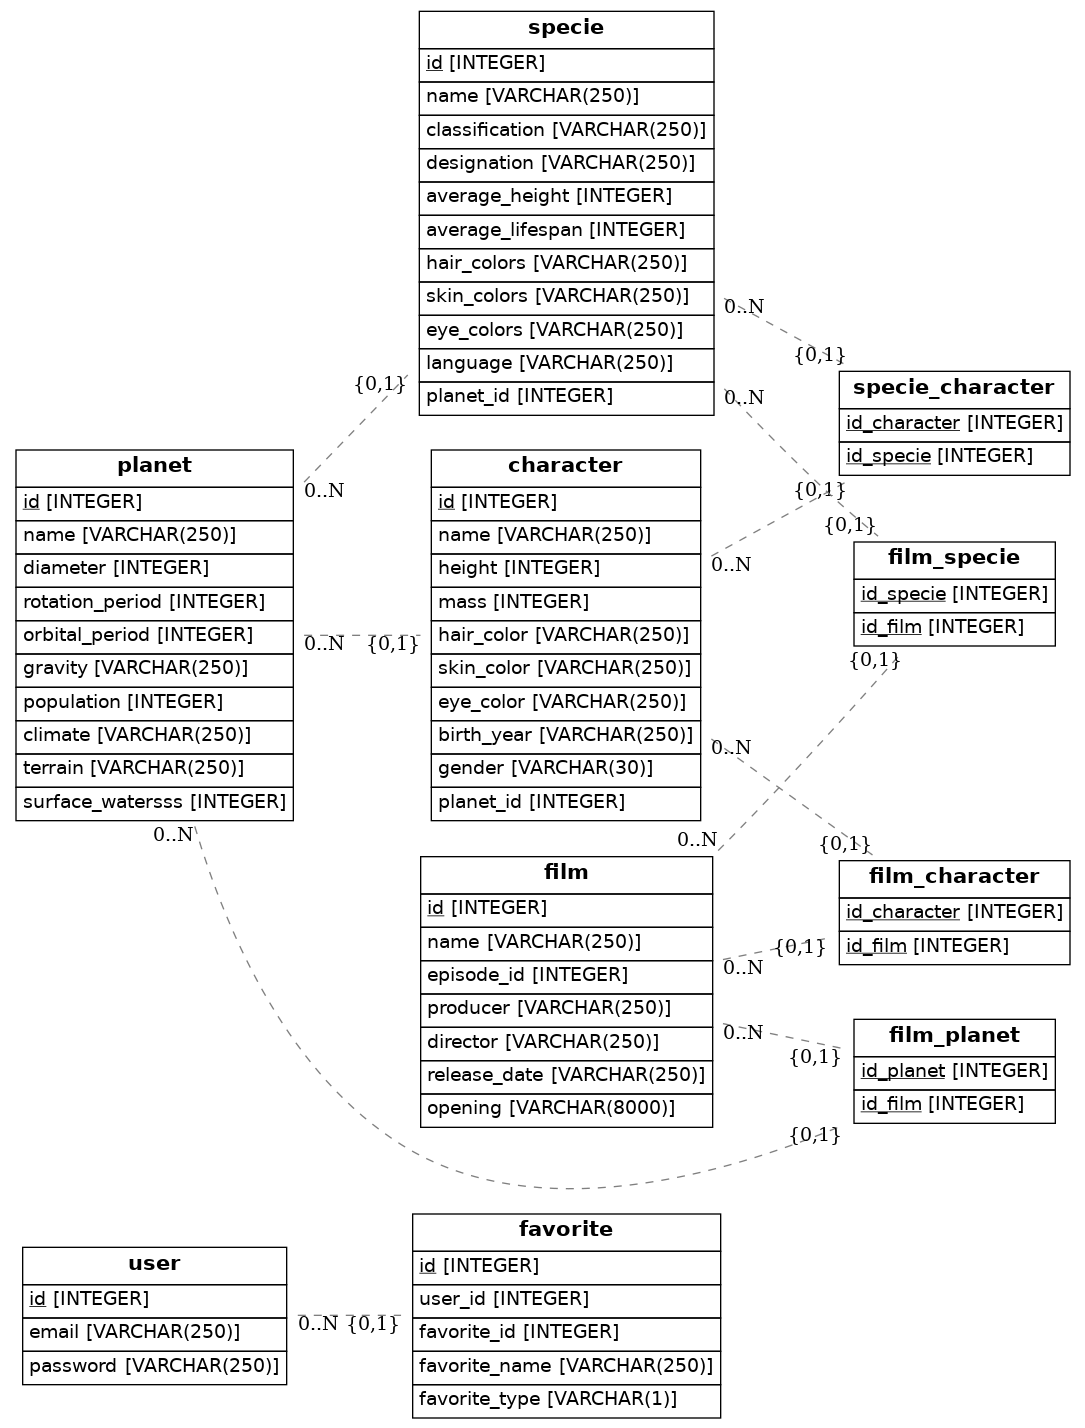
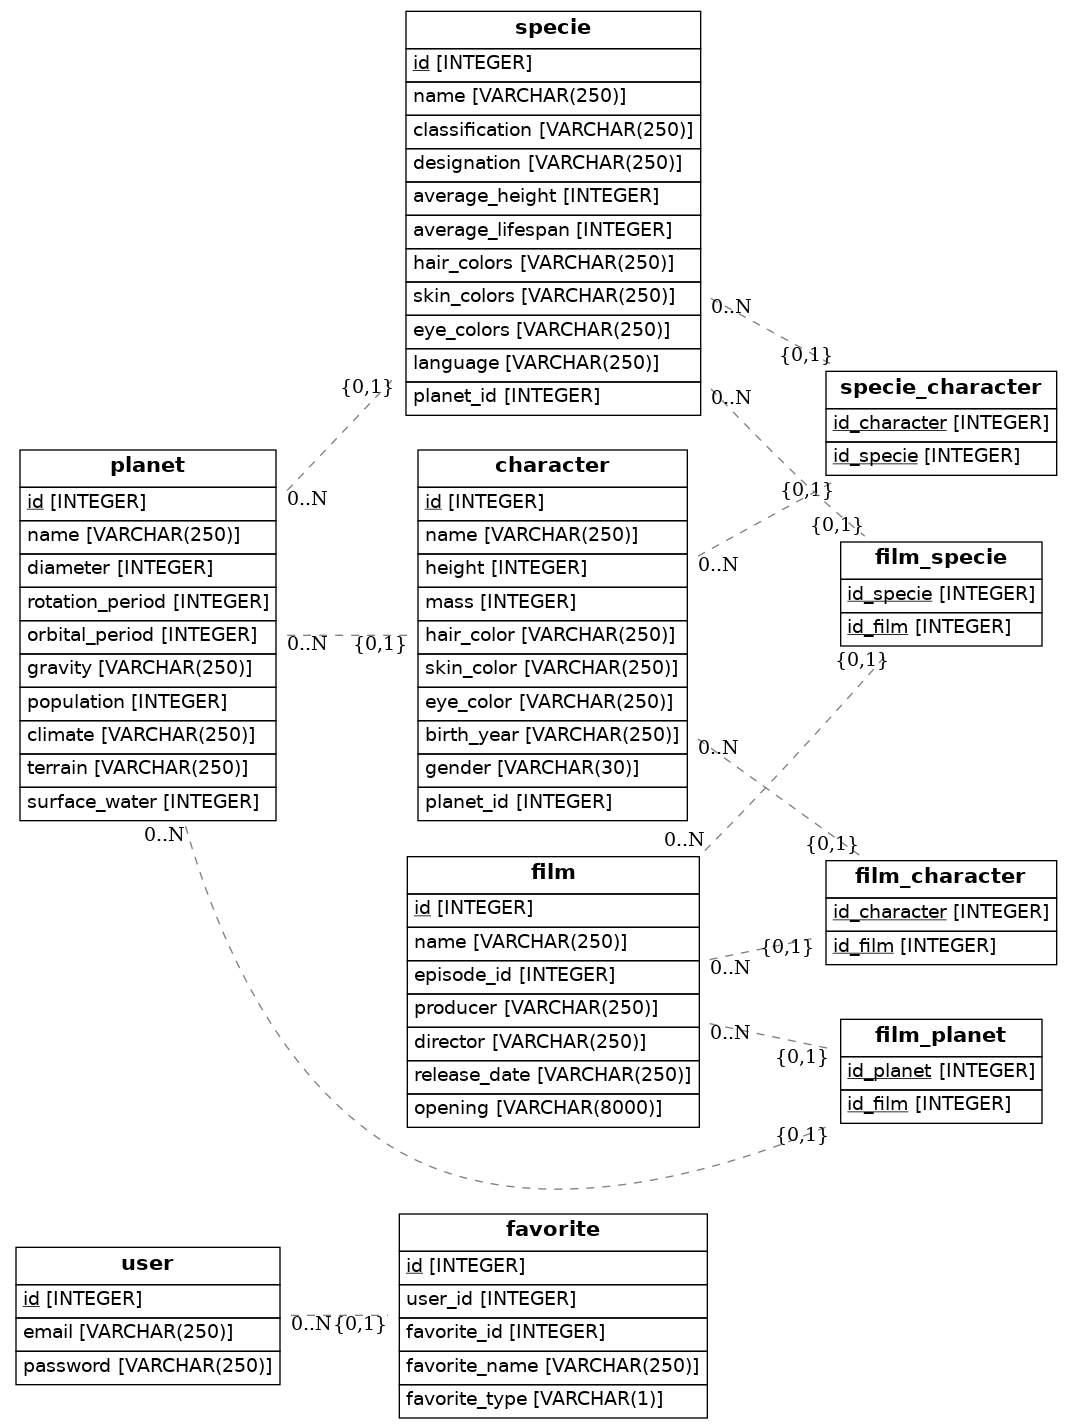
Relationship changes

diff --git a/src/models.py b/src/models.py
@@ -26,8 +26,9 @@ class Planet(Base):
     climate = Column(String(250))
     terrain = Column(String(250), nullable=False)
     surface_water = Column(Integer)  
+    characters = relationship('character', backref='planet', lazy=True)
+    species = relationship('specie', backref='planet', lazy=True)
  
-    
 
 class Character(Base):
     __tablename__ = 'character'
@@ -40,8 +41,9 @@ class Character(Base):
     eye_color = Column(String(250))
     birth_year = Column(String(250), nullable=False)
     gender = Column(String(30), nullable=False)
-    planet_id = Column(Integer,ForeignKey('planet.id'), nullable=False)
-    planet = relationship(Planet)
+    planet_id = Column(Integer, ForeignKey('planet.id'),nullable=False)
+    # planet_id = Column(Integer,ForeignKey('planet.id'), nullable=False)
+    # planet = relationship(Planet)
 
 class Specie(Base):
     __tablename__='specie'
@@ -55,15 +57,17 @@ class Specie(Base):
     skin_colors = Column(String(250))
     eye_colors = Column(String(250))
     language = Column(String(250))
-    planet_id = Column(Integer,ForeignKey('planet.id'), nullable=False)
-    planet = relationship(Planet)
+    planet_id = Column(Integer, ForeignKey('planet.id'),nullable=False)
+    characters = relationship('character', secondary='specie_character', lazy='subquery',backref=('specie'))
+    # planet_id = Column(Integer,ForeignKey('planet.id'), nullable=False)
+    # planet = relationship(Planet)
 
 class SpecieCharacter(Base):
     __tablename__='specie_character'
     id_character=Column(Integer, ForeignKey('character.id'),primary_key=True)
     id_specie=Column(Integer, ForeignKey('specie.id'),primary_key=True)
-    character=relationship(Character)
-    specie=relationship(Specie)
+    # character=relationship(Character)
+    # specie=relationship(Specie)
 
 class Film(Base):
     __tablename__='film'
@@ -74,33 +78,36 @@ class Film(Base):
     director = Column(String(250), nullable=False)
     release_date = Column(String(250), nullable=False)
     opening = Column(String(8000))
+    characters = relationship('character', secondary='film_character', lazy='subquery',backref=('film'))
+    planets = relationship('planet', secondary='film_planet', lazy='subquery',backref=('film'))
+    species = relationship('specie', secondary='film_specie', lazy='subquery',backref=('film'))
 
 class FilmCharacter(Base):
     __tablename__='film_character'
     id_character=Column(Integer, ForeignKey('character.id'),primary_key=True)
     id_film=Column(Integer, ForeignKey('film.id'),primary_key=True)
-    character=relationship(Character)
-    film=relationship(Film)
+    # character=relationship(Character)
+    # film=relationship(Film)
 
 class FilmPlanet(Base):
     __tablename__='film_planet'
     id_planet=Column(Integer, ForeignKey('planet.id'),primary_key=True)
     id_film=Column(Integer, ForeignKey('film.id'),primary_key=True)
-    planet=relationship(Planet)
-    film=relationship(Film)
+    # planet=relationship(Planet)
+    # film=relationship(Film)
 
 class FilmSpecie(Base):
     __tablename__='film_specie'
     id_specie=Column(Integer, ForeignKey('specie.id'),primary_key=True)
     id_film=Column(Integer, ForeignKey('film.id'),primary_key=True)
-    specie=relationship(Specie)
-    film=relationship(Film)
+    # specie=relationship(Specie)
+    # film=relationship(Film)
 
 class Favorite(Base):
     __tablename__='favorite'
     id=Column(Integer,primary_key=True)
     user_id = Column(Integer,ForeignKey('user.id'), nullable=False)
-    user = relationship(User)
+    # user = relationship(User)
     favorite_id=Column(Integer, nullable=False)
     favorite_name=Column(String(250),nullable=False)
     favorite_type = Column(String(1))
